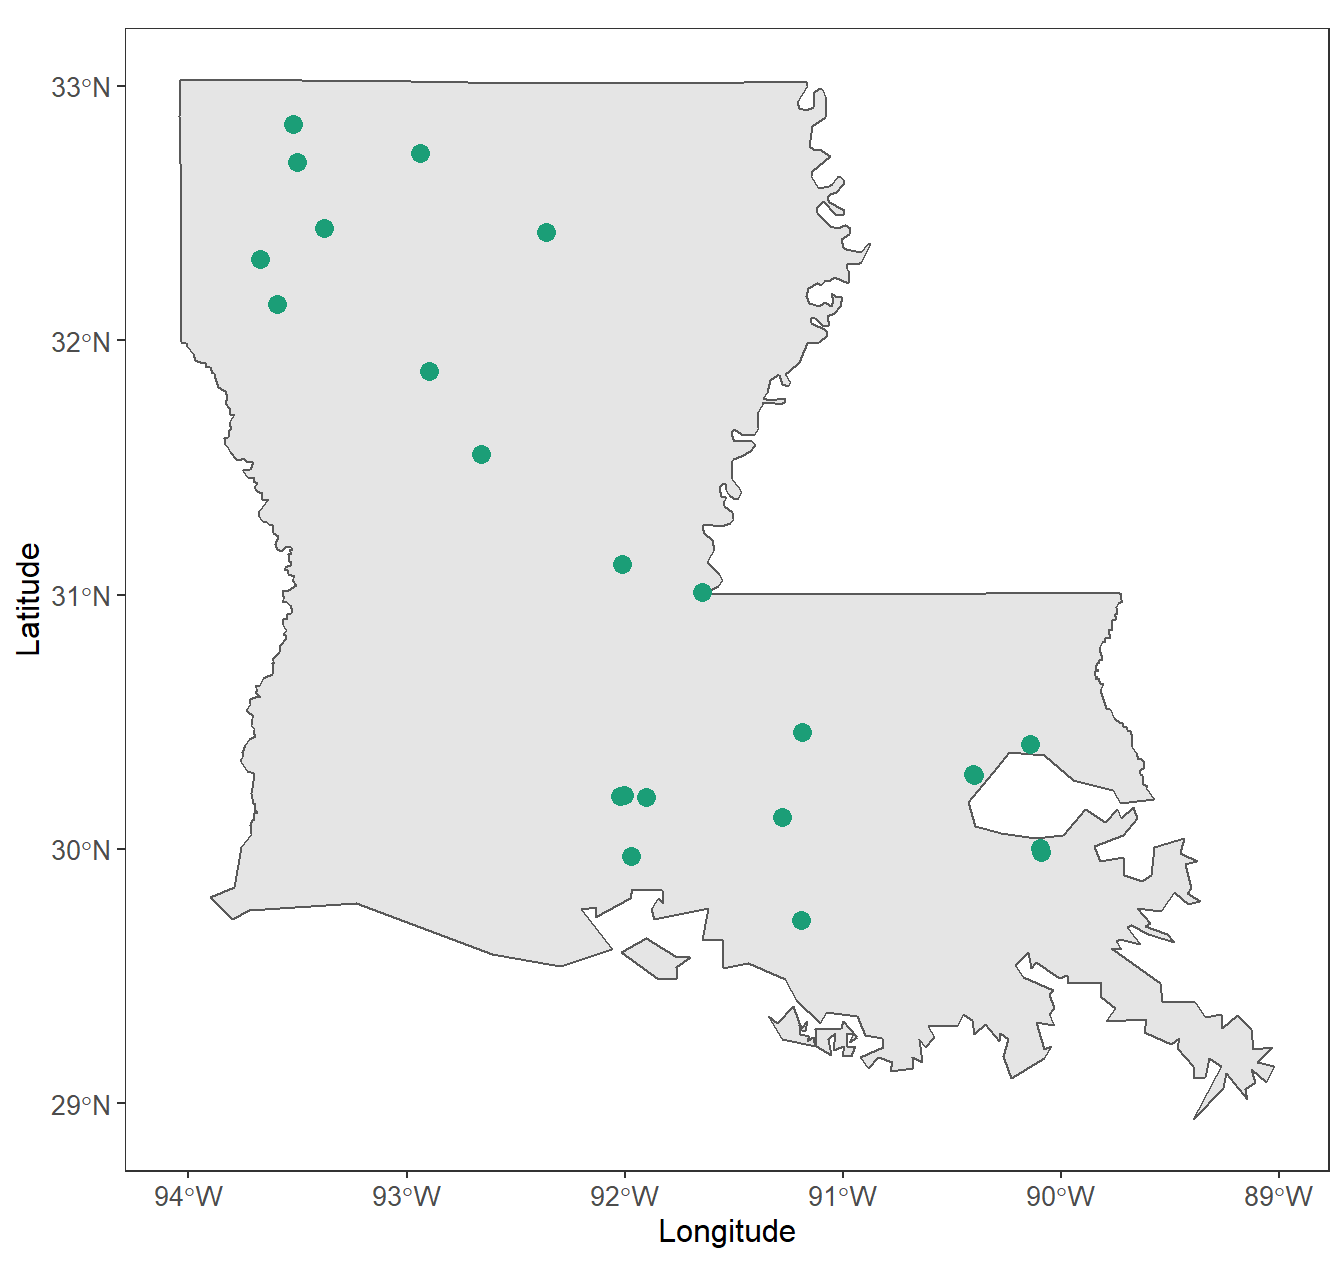
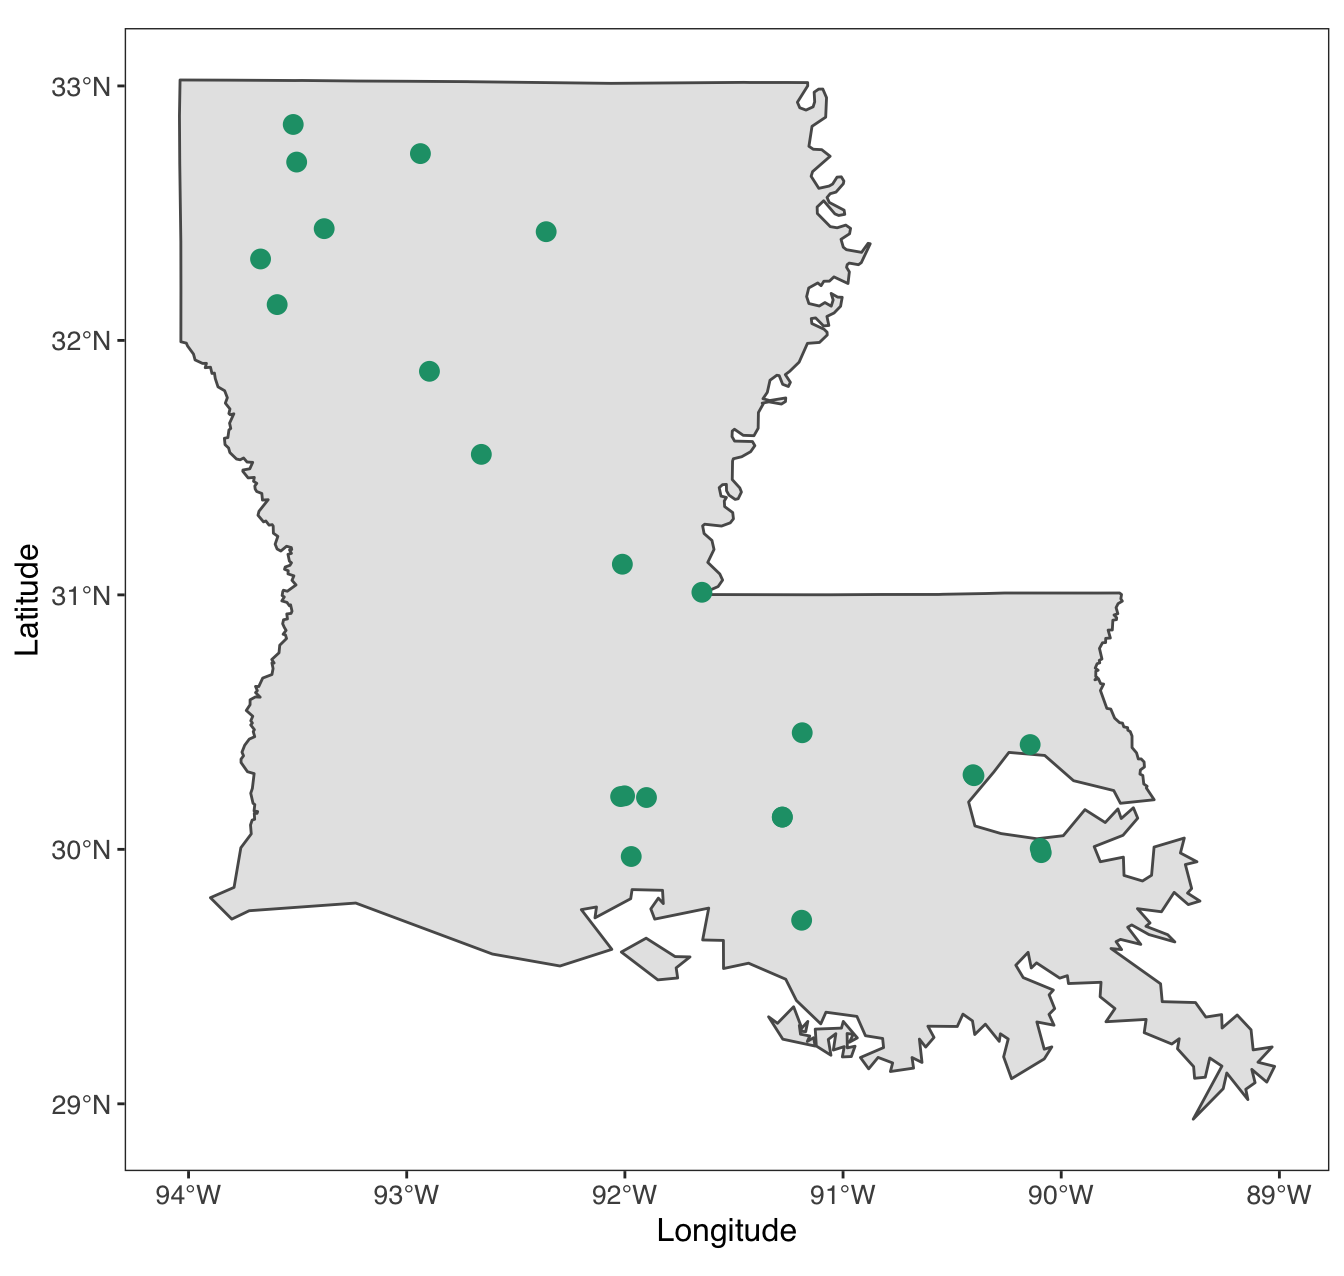
Fixed shapefile map background for A. argyrosperma and ensured all pictures/spacing is uniformed throughout.

diff --git a/index.html b/index.html
@@ -13,7 +13,7 @@
 
 <title>The Louisiana Freshwater Sponge Project:</title>
 
-<script src="site_libs/header-attrs-2.7/header-attrs.js"></script>
+<script src="site_libs/header-attrs-2.8/header-attrs.js"></script>
 <script src="site_libs/jquery-1.11.3/jquery.min.js"></script>
 <meta name="viewport" content="width=device-width, initial-scale=1" />
 <link href="site_libs/bootstrap-3.3.5/css/yeti.min.css" rel="stylesheet" />
@@ -293,7 +293,7 @@ Home of the Louisiana Freshwater Sponge Hunters
 </center>
 <br> <br> The project is now shared between two institutions: <br> <br> <a href="https://www.mybrcc.edu/">Baton Rouge Community College</a>, still led by Dr. Miller, and <a href="https://www.lumcon.edu/">Louisiana Universities Marine Consortium</a>, led by Dr. Stephanie Archer. The two have continued to collaborate with Dr. Poirrier to identify sponges and answer questions related to these environmental health indicators. <br> <br>
 <center>
-<img src="MS.JPG" style="width:50.0%" />
+<img src="MS.JPG" style="width:75.0%" />
 </center>
 <p><br></p>
 <p><br> <br> <br> <br> <br> <br> Scientific collection of sponges for this project is governed through the issued Louisiana Wildlife and Fisheries scientific collecting Permit #SCP202. <br> <br></p>

diff --git a/thehunt.html b/thehunt.html
@@ -13,7 +13,7 @@
 
 <title>The Hunt</title>
 
-<script src="site_libs/header-attrs-2.7/header-attrs.js"></script>
+<script src="site_libs/header-attrs-2.8/header-attrs.js"></script>
 <script src="site_libs/jquery-1.11.3/jquery.min.js"></script>
 <meta name="viewport" content="width=device-width, initial-scale=1" />
 <link href="site_libs/bootstrap-3.3.5/css/yeti.min.css" rel="stylesheet" />
@@ -297,6 +297,7 @@ The Louisiana Freshwater Sponge survey began in the spring 2018 with a group of 
 </center>
 <p><br> <br></p>
 <p>The site map below is continuously updated with the sites surveyed in this study. Sites are further labeled with the observation of sponge presence or absence. The sites labeled as NA are those that were visited but surveying was not possible because of high water at the time. These sites will be revisited.</p>
+<p><br></p>
 <p><img src="thehunt_files/figure-html/map-1.png" width="672" style="display: block; margin: auto;" /></p>
 
 

diff --git a/tp.html b/tp.html
@@ -13,7 +13,7 @@
 
 <title>Trochospongilla pennsylvanica</title>
 
-<script src="site_libs/header-attrs-2.7/header-attrs.js"></script>
+<script src="site_libs/header-attrs-2.8/header-attrs.js"></script>
 <script src="site_libs/jquery-1.11.3/jquery.min.js"></script>
 <meta name="viewport" content="width=device-width, initial-scale=1" />
 <link href="site_libs/bootstrap-3.3.5/css/yeti.min.css" rel="stylesheet" />

diff --git a/AA.html b/AA.html
@@ -13,7 +13,7 @@
 
 <title>Anheteromeyenia argyrosperma</title>
 
-<script src="site_libs/header-attrs-2.7/header-attrs.js"></script>
+<script src="site_libs/header-attrs-2.8/header-attrs.js"></script>
 <script src="site_libs/jquery-1.11.3/jquery.min.js"></script>
 <meta name="viewport" content="width=device-width, initial-scale=1" />
 <link href="site_libs/bootstrap-3.3.5/css/yeti.min.css" rel="stylesheet" />

diff --git a/about.html b/about.html
@@ -13,7 +13,7 @@
 
 <title>What are freshwater sponges?</title>
 
-<script src="site_libs/header-attrs-2.7/header-attrs.js"></script>
+<script src="site_libs/header-attrs-2.8/header-attrs.js"></script>
 <script src="site_libs/jquery-1.11.3/jquery.min.js"></script>
 <meta name="viewport" content="width=device-width, initial-scale=1" />
 <link href="site_libs/bootstrap-3.3.5/css/yeti.min.css" rel="stylesheet" />

diff --git a/rcr.html b/rcr.html
@@ -13,7 +13,7 @@
 
 <title>Radiospongilla crateriformis</title>
 
-<script src="site_libs/header-attrs-2.7/header-attrs.js"></script>
+<script src="site_libs/header-attrs-2.8/header-attrs.js"></script>
 <script src="site_libs/jquery-1.11.3/jquery.min.js"></script>
 <meta name="viewport" content="width=device-width, initial-scale=1" />
 <link href="site_libs/bootstrap-3.3.5/css/yeti.min.css" rel="stylesheet" />

diff --git a/rce.html b/rce.html
@@ -13,7 +13,7 @@
 
 <title>Radiospongilla cerebellata</title>
 
-<script src="site_libs/header-attrs-2.7/header-attrs.js"></script>
+<script src="site_libs/header-attrs-2.8/header-attrs.js"></script>
 <script src="site_libs/jquery-1.11.3/jquery.min.js"></script>
 <meta name="viewport" content="width=device-width, initial-scale=1" />
 <link href="site_libs/bootstrap-3.3.5/css/yeti.min.css" rel="stylesheet" />

diff --git a/dr.html b/dr.html
@@ -13,7 +13,7 @@
 
 <title>Doscilia radiospiculata</title>
 
-<script src="site_libs/header-attrs-2.7/header-attrs.js"></script>
+<script src="site_libs/header-attrs-2.8/header-attrs.js"></script>
 <script src="site_libs/jquery-1.11.3/jquery.min.js"></script>
 <meta name="viewport" content="width=device-width, initial-scale=1" />
 <link href="site_libs/bootstrap-3.3.5/css/yeti.min.css" rel="stylesheet" />

diff --git a/th.html b/th.html
@@ -13,7 +13,7 @@
 
 <title>Trochospongilla horrida</title>
 
-<script src="site_libs/header-attrs-2.7/header-attrs.js"></script>
+<script src="site_libs/header-attrs-2.8/header-attrs.js"></script>
 <script src="site_libs/jquery-1.11.3/jquery.min.js"></script>
 <meta name="viewport" content="width=device-width, initial-scale=1" />
 <link href="site_libs/bootstrap-3.3.5/css/yeti.min.css" rel="stylesheet" />

diff --git a/T_leidyi.html b/T_leidyi.html
@@ -13,7 +13,7 @@
 
 <title>Trochospongilla leidyi</title>
 
-<script src="site_libs/header-attrs-2.7/header-attrs.js"></script>
+<script src="site_libs/header-attrs-2.8/header-attrs.js"></script>
 <script src="site_libs/jquery-1.11.3/jquery.min.js"></script>
 <meta name="viewport" content="width=device-width, initial-scale=1" />
 <link href="site_libs/bootstrap-3.3.5/css/yeti.min.css" rel="stylesheet" />

diff --git a/Epf.html b/Epf.html
@@ -13,7 +13,7 @@
 
 <title>Ephydatia fluviatilis</title>
 
-<script src="site_libs/header-attrs-2.7/header-attrs.js"></script>
+<script src="site_libs/header-attrs-2.8/header-attrs.js"></script>
 <script src="site_libs/jquery-1.11.3/jquery.min.js"></script>
 <meta name="viewport" content="width=device-width, initial-scale=1" />
 <link href="site_libs/bootstrap-3.3.5/css/yeti.min.css" rel="stylesheet" />

diff --git a/donate.html b/donate.html
@@ -13,7 +13,7 @@
 
 <title>Donations and Support</title>
 
-<script src="site_libs/header-attrs-2.7/header-attrs.js"></script>
+<script src="site_libs/header-attrs-2.8/header-attrs.js"></script>
 <script src="site_libs/jquery-1.11.3/jquery.min.js"></script>
 <meta name="viewport" content="width=device-width, initial-scale=1" />
 <link href="site_libs/bootstrap-3.3.5/css/yeti.min.css" rel="stylesheet" />
